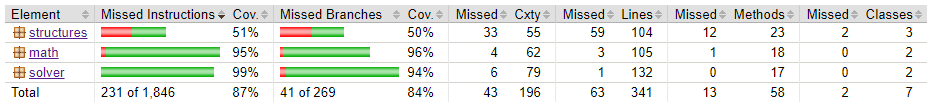
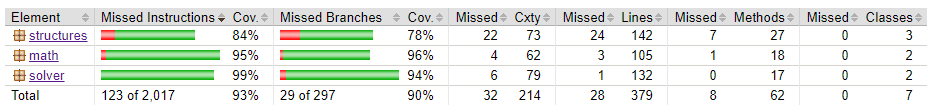
test update

diff --git a/src/test/java/structures/ArrayListTest.java b/src/test/java/structures/ArrayListTest.java
@@ -29,6 +29,11 @@ public class ArrayListTest {
         assertEquals(Integer.valueOf(10), a.get(0));
     }
     
+    @Test(expected = IndexOutOfBoundsException.class)
+    public void testGetException() {
+        a.get(10);
+    }
+    
     @Test
     public void testArrayExpansion() {
         for (int i = 0; i < 60; i++) {
@@ -50,6 +55,11 @@ public class ArrayListTest {
         assertEquals(Integer.valueOf(2), a.get(5));
     }
     
+    @Test(expected = IndexOutOfBoundsException.class)
+    public void testSetException() {
+        a.set(10, 10);
+    }
+    
     @Test
     public void testRemoving() {
         for (int i = 0; i < 10; i++) {
@@ -60,6 +70,9 @@ public class ArrayListTest {
         
         assertEquals(9, a.size());
         assertEquals(Integer.valueOf(2), a.get(1));
+        assertEquals(Integer.valueOf(0), a.get(0));
+        
+        assertEquals(-1, a.remove(1000));
     }
     
     @Test
@@ -72,6 +85,16 @@ public class ArrayListTest {
         
         assertEquals(9, a.size());
         assertEquals(Integer.valueOf(2), a.get(1));
+        
+        int tmp = a.get(a.size()-1);
+        a.removeAt(a.size()-1);
+        
+        assertNotEquals(Integer.valueOf(tmp), a.get(a.size()-1));
+    }
+    
+    @Test(expected = IndexOutOfBoundsException.class)
+    public void testRemoveAtException() {
+        a.removeAt(10);
     }
     
     @Test

diff --git a/src/main/java/structures/ArrayList.java b/src/main/java/structures/ArrayList.java
@@ -41,7 +41,10 @@ public class ArrayList<E> {
     public int remove(E item) {
         for (int i = 0; i < pointer; i++) {
             if (list[i] == item) {
-                shiftLeft(i);
+                if (i + 1 == pointer)
+                    pointer--;
+                else
+                    shiftLeft(i + 1);
                 return 0;
             }
         }
@@ -57,7 +60,10 @@ public class ArrayList<E> {
      */
     public void removeAt(int index) {
         if (index < pointer && index >= 0) {
-            shiftLeft(index);
+            if (index + 1 == pointer)
+                pointer--;
+            else
+                shiftLeft(index + 1);
         } else {
             throw new IndexOutOfBoundsException("ArrayList Index Out Of Bounds");
         }

diff --git a/Documentation/Test document.md b/Documentation/Test document.md
@@ -46,8 +46,6 @@ a reduced row form the solver would most likely be much faster.
 Here we can see the overall JUnit test coverage.
 
 ![Test coverage](/Documentation/Images/test_report.png)\
-![Test coverage](/Documentation/Images/structure_coverage.png)
 
 Various classes are tested quite extensively, however
 the variability of matrix calculation testing is a bit lacking.
-HashMap testing is missing as well.
